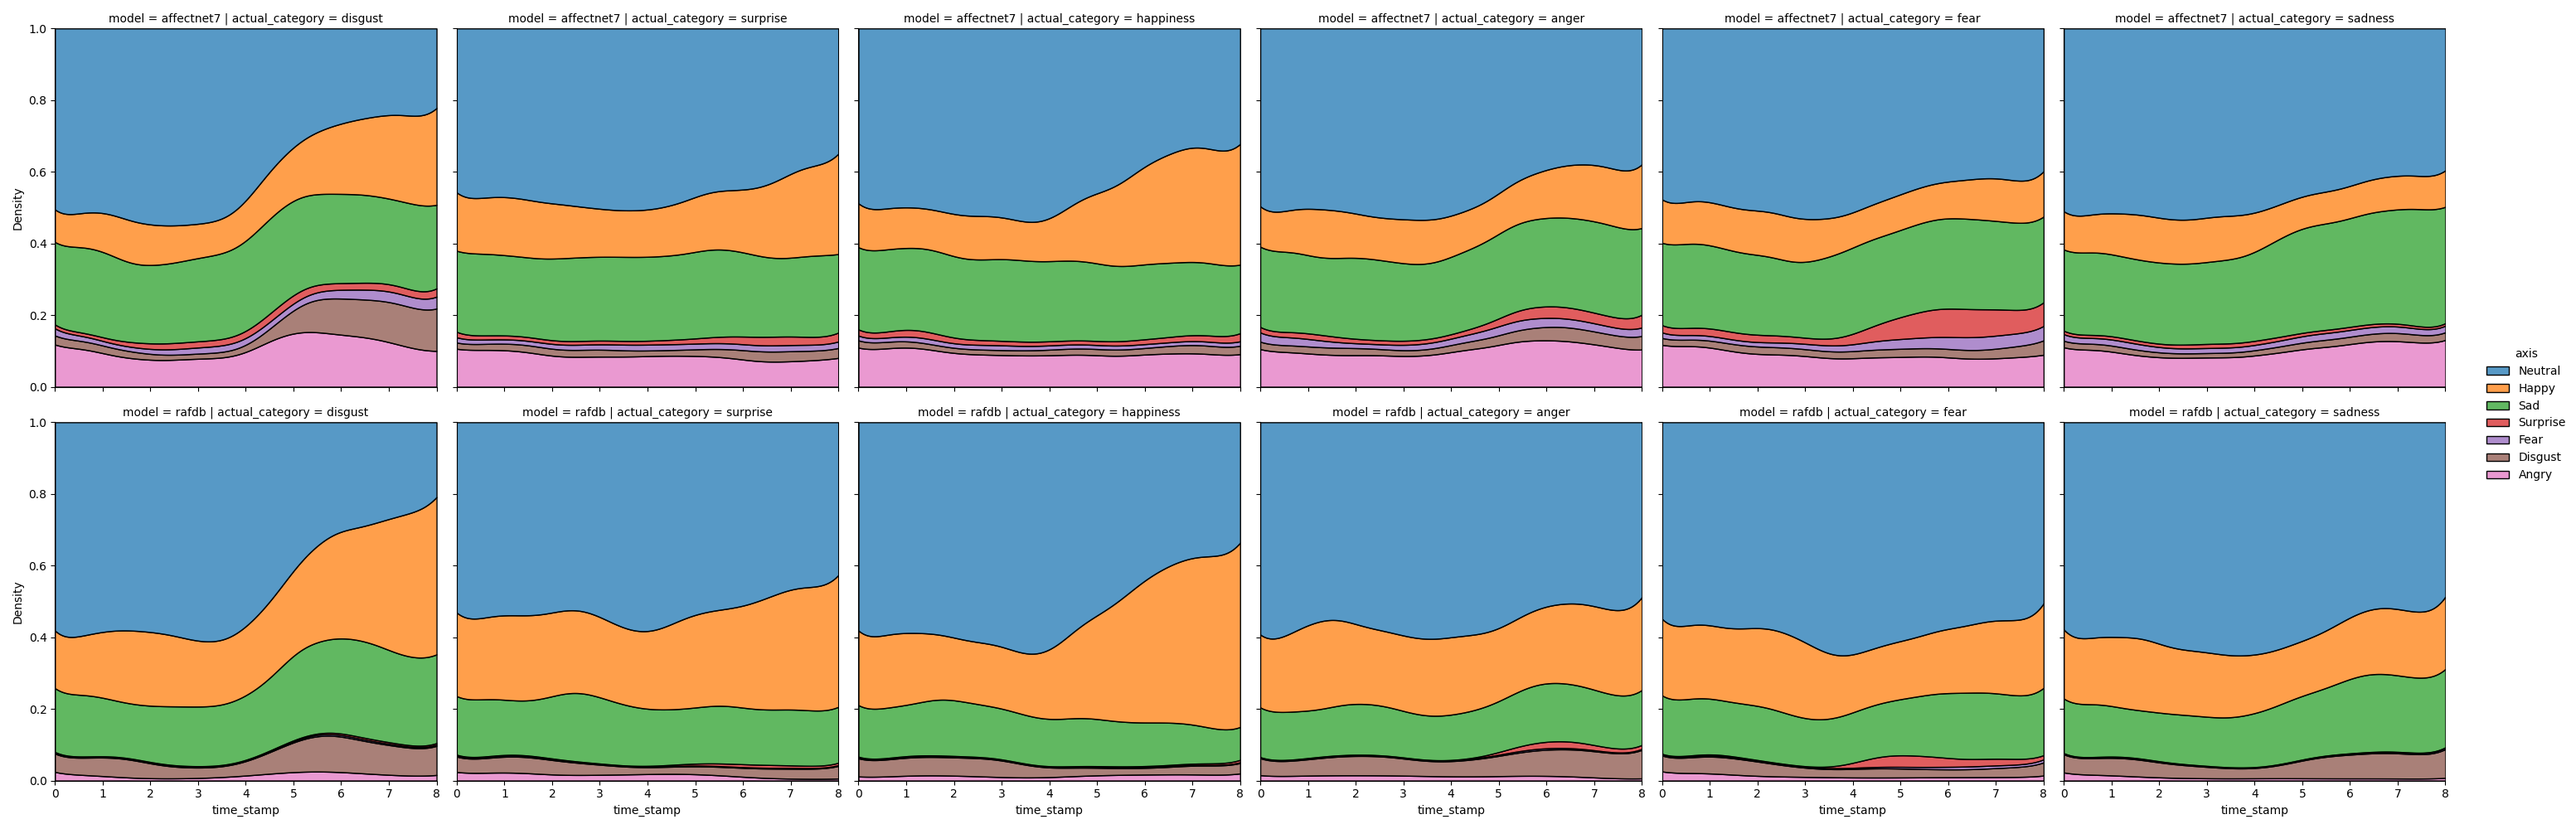
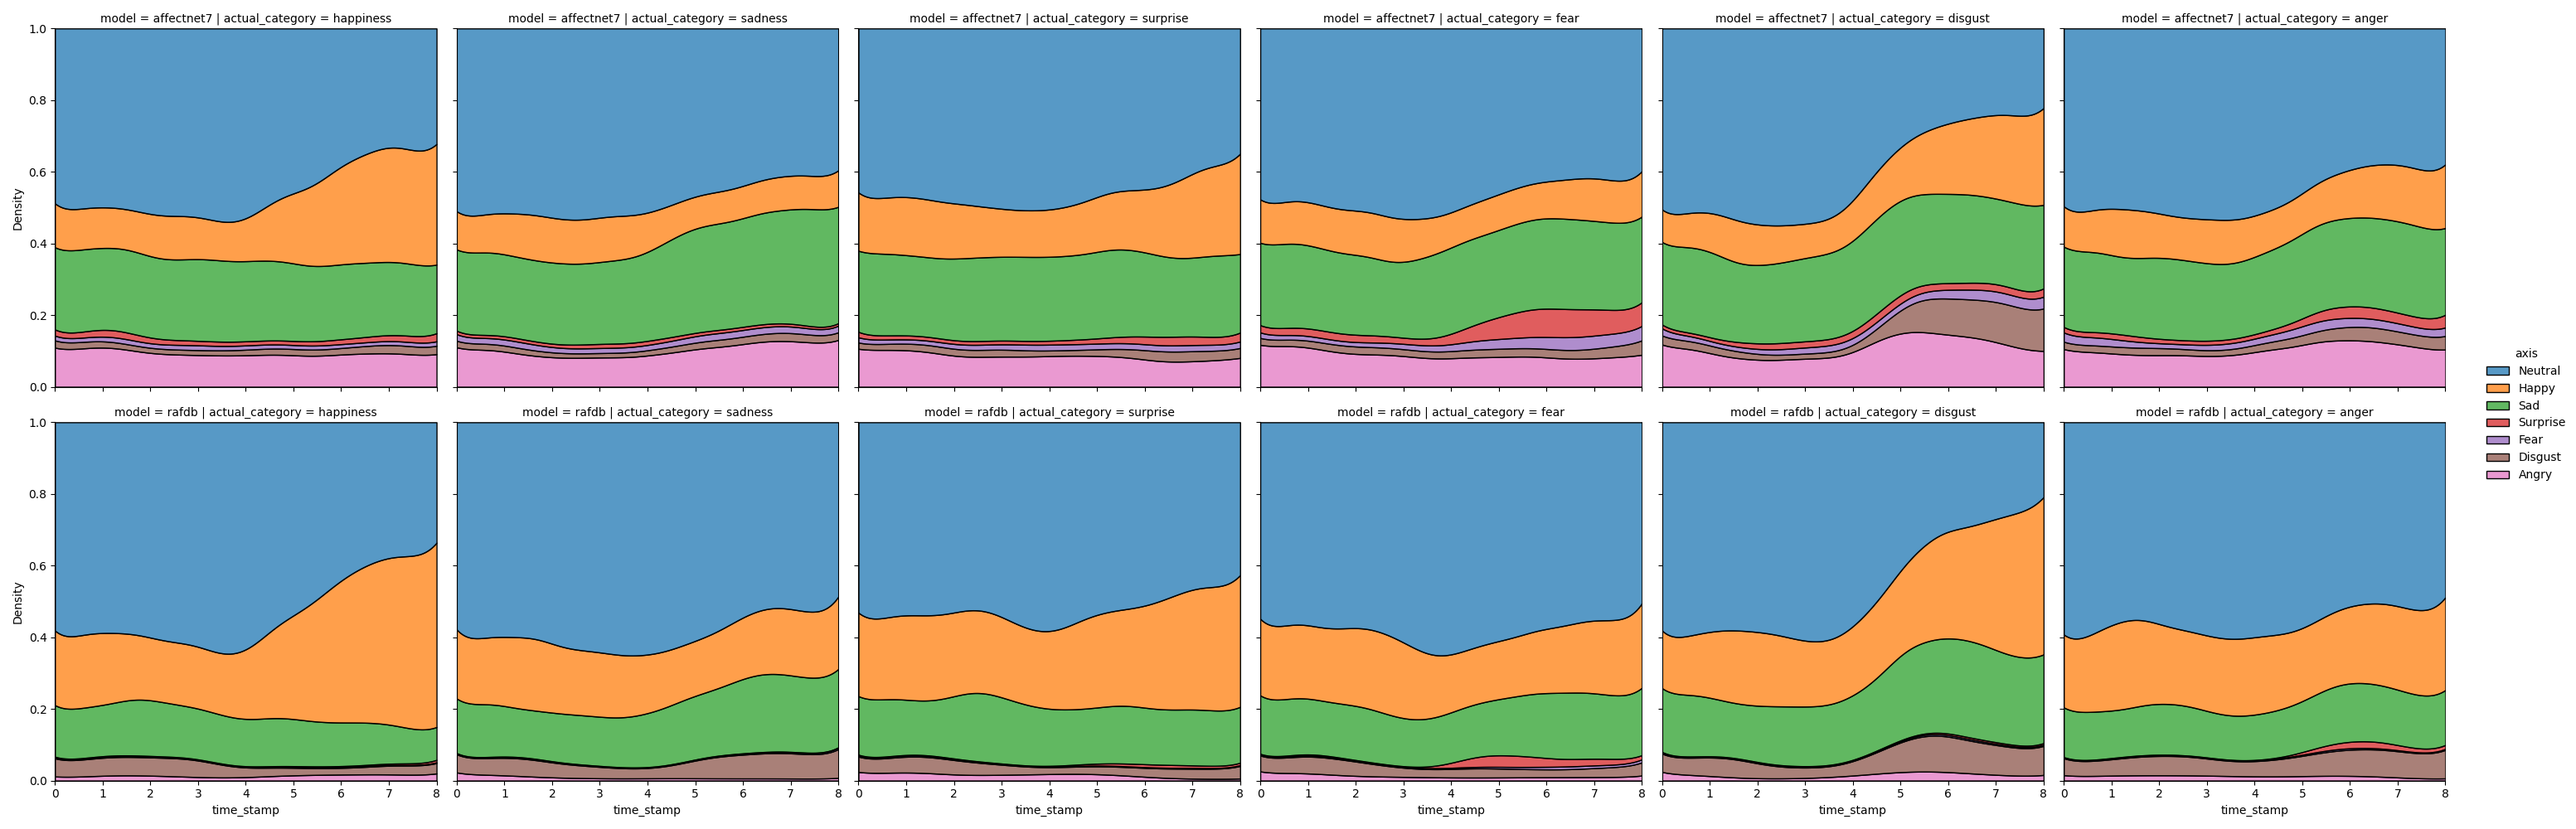
we are so fucking up god damn

diff --git a/src/Graphs.py b/src/Graphs.py
@@ -5,6 +5,7 @@ from matplotlib import pyplot
 from matplotlib.axes import Axes
 from seaborn import FacetGrid
 
+from src.Consts import emotion_classes_network, emotion_classes_vote, emotion_classes_og_dataset, network_to_vote
 from src.DataConversion import remap, normalize_col, retrieve_compiled_video_logs, load_timing_from_frames
 
 
@@ -23,6 +24,7 @@ def plot_gender_distribution() -> Axes:
     plt.pie(data, labels=data.index, autopct='%1.1f%%', startangle=90)
     return plt.gca()
 
+
 def plot_age_distribution() -> Axes:
     df = pd.read_csv("data/bias.csv")
     data = df["demographic_age"].value_counts()
@@ -37,6 +39,7 @@ def plot_confusion_matrix() -> Axes:
     conf_matrix = pd.crosstab(df['actual_category'], df['category'])
     return sns.heatmap(conf_matrix, annot=True)
 
+
 def load_single_video_data(df: pd.DataFrame, key: str, normalize: bool = False) -> pd.DataFrame:
     other = pd.read_csv("data/CowenKeltnerEmotionalVideos.csv") \
         .filter(["Filename", key]) \
@@ -45,14 +48,20 @@ def load_single_video_data(df: pd.DataFrame, key: str, normalize: bool = False) 
         other = normalize_col(other, "true_" + key, (1, 9))
     return df.merge(other, on="watched_video")
 
+
 def plot_valence_comparison(): return plot_triple_comparison("valence")
+
+
 def plot_arousal_comparison(): return plot_triple_comparison("arousal")
+
+
 def plot_triple_comparison(key: str) -> FacetGrid:
     df = pd.read_csv("data/questionnaire.csv")
     df = normalize_col(df, key, (1, 7))
     df = load_single_video_data(df, key, normalize=True)
     df[key + "_diff"] = df[key] - df["true_" + key]
-    melted_df = df.melt(id_vars=["actual_category", "watched_video"], value_vars=[key, "true_" + key, key + "_diff"], var_name="col", value_name="value")
+    melted_df = df.melt(id_vars=["actual_category", "watched_video"], value_vars=[key, "true_" + key, key + "_diff"],
+                        var_name="col", value_name="value")
     melted_df = melted_df[~((melted_df['col'] == 'true_' + key) & melted_df.duplicated(['col', 'watched_video']))]
     g = sns.FacetGrid(melted_df, col="col", hue="actual_category", sharex=False, sharey=False, aspect=1.2)
     g.map(sns.kdeplot, "value", bw_adjust=1)
@@ -60,15 +69,27 @@ def plot_triple_comparison(key: str) -> FacetGrid:
     g.axes[0, 2].axvline(x=0, color='black', linestyle='--')
     return g
 
+
 def plot_valence_distribution(): return plot_distribution("valence")
+
+
 def plot_arousal_distribution(): return plot_distribution("arousal")
+
+
 def plot_intensity_distribution(): return plot_distribution("intensity")
+
+
 def plot_distribution(key: str) -> Axes:
     df = pd.read_csv("data/questionnaire.csv")
     return sns.kdeplot(df, x=key, hue="actual_category")
 
+
 def plot_true_valence_distribution(): return plot_true_distribution("valence")
+
+
 def plot_true_arousal_distribution(): return plot_true_distribution("arousal")
+
+
 def plot_true_distribution(key: str) -> Axes:
     df = pd.read_csv("data/questionnaire.csv")
     df = load_single_video_data(df, key, normalize=True)
@@ -76,7 +97,11 @@ def plot_true_distribution(key: str) -> Axes:
 
 
 def plot_valence_matching(): return plot_matching("valence")
+
+
 def plot_arousal_matching(): return plot_matching("arousal")
+
+
 def plot_matching(key: str) -> Axes:
     df = pd.read_csv("data/questionnaire.csv")
     df = normalize_col(df, key, (1, 7))
@@ -86,13 +111,17 @@ def plot_matching(key: str) -> Axes:
     ax.axvline(x=0, color='black', linestyle='--')
     return ax
 
+def order_by_emotion_class_og_dataset(df: pd.DataFrame) -> pd.DataFrame:
+    df["actual_category_index"] = df["actual_category"].apply(lambda x: emotion_classes_og_dataset.index(x))
+    return df.sort_values("actual_category_index")
+
 def plot_video_watch_count() -> Axes:
     df = pd.read_csv("data/questionnaire.csv")
     data = df["watched_video"].value_counts().rename_axis('watched_video').to_frame('index')
     data = data.merge(df[["watched_video", "actual_category"]], on="watched_video")
-    data = data.sort_values("actual_category", ascending=False)
+    data = order_by_emotion_class_og_dataset(data)
     fig, ax = pyplot.subplots(figsize=(16.0, 7.0))
-    ax = sns.barplot(data, x="watched_video", y="index", hue="actual_category", ax=ax)
+    ax = sns.barplot(data, x="watched_video", y="index", hue="actual_category", ax=ax, hue_order=emotion_classes_og_dataset)
     plt.xticks(rotation=45, ha='right')
     return ax
 
@@ -102,33 +131,105 @@ def plot_pre_reaction() -> Axes:
     df = df[df["time_stamp"] < 3]
     # find out the dominant emotion for each frame, of every video from every participant
     # df = df.loc[df.groupby(["participant", "watched_video", "frame"])['value'].idxmax()]
-    return sns.lmplot(data=df, x="time_stamp", y="value", col="axis", hue="model", scatter_kws={"s": 20, "alpha": 0.1, "edgecolors": 'none'})
+    return sns.lmplot(data=df, x="time_stamp", y="value", col="axis", hue="model",
+                      scatter_kws={"s": 20, "alpha": 0.1, "edgecolors": 'none'}, col_order=emotion_classes_network)
+
 
 def plot_all_reaction_fill() -> FacetGrid:
     df = retrieve_compiled_video_logs()
     df = df[df["time_stamp"] < 8]
-    g = sns.displot(data=df, x="time_stamp", weights="value", col="model", hue="axis", kind="kde", multiple="fill", clip=(0.0, 8.0))
+    g = sns.displot(data=df, x="time_stamp", weights="value", col="model", hue="axis", kind="kde", multiple="fill",
+                    clip=(0.0, 8.0), hue_order=emotion_classes_network)
     return g
+
 
 def plot_all_reaction_fill_by_emotion() -> FacetGrid:
     df = retrieve_compiled_video_logs()
     df = df[df["time_stamp"] < 8]
-    g = sns.displot(data=df, x="time_stamp", weights="value", row="model", col="category", hue="axis", kind="kde", multiple="fill", clip=(0.0, 8.0))
+    g = sns.displot(data=df, x="time_stamp", weights="value", row="model", col="category", hue="axis", kind="kde",
+                    multiple="fill", clip=(0.0, 8.0), hue_order=emotion_classes_network, col_order=emotion_classes_vote)
     return g
 
 
 def plot_all_reaction_fill_by_original_category() -> FacetGrid:
     df = retrieve_compiled_video_logs()
     df = df[df["time_stamp"] < 8]
-    g = sns.displot(data=df, x="time_stamp", weights="value", row="model", col="actual_category", hue="axis", kind="kde", multiple="fill", clip=(0.0, 8.0))
+    g = sns.displot(data=df, x="time_stamp", weights="value", row="model", col="actual_category", hue="axis",
+                    kind="kde", multiple="fill", clip=(0.0, 8.0), hue_order=emotion_classes_network,
+                    col_order=emotion_classes_og_dataset)
     return g
 
 
+def plot_most_confident_guess() -> FacetGrid:
+    df = retrieve_compiled_video_logs()
+    df = df[df["time_stamp"] < 8]
+    df = df.loc[df.groupby(["participant", "watched_video", "frame"])['value'].idxmax()]
+    g = sns.displot(data=df, x="time_stamp", weights="value", row="model", col="category", hue="axis", kind="kde",
+                    multiple="fill", clip=(0.0, 8.0), hue_order=emotion_classes_network, col_order=emotion_classes_vote)
+    return g
 
-all_plots = [# plot_gender_distribution, plot_age_distribution,
-             # plot_confusion_matrix, plot_video_watch_count,
-             # plot_valence_comparison, plot_arousal_comparison, plot_intensity_distribution,
-             # plot_pre_reaction,
-             # plot_all_reaction_fill
-             plot_all_reaction_fill_by_original_category
+
+def load_correct_guess_data() -> pd.DataFrame:
+    df = retrieve_compiled_video_logs()
+    df = df.loc[df.groupby(["participant", "watched_video", "frame", "model"])['value'].idxmax()]
+    df["is_correct"] = df["category"] == network_to_vote(df["axis"])
+    return df
+
+
+def plot_correct_guess() -> FacetGrid:
+    df = load_correct_guess_data()
+    g = sns.displot(data=df, x="time_stamp", row="model", col="category", hue="is_correct", kind="kde",
+                    multiple="fill", clip=(0.0, 8.0), col_order=emotion_classes_vote)
+    return g
+
+
+def load_averaged_correct_guess_data() -> pd.DataFrame:
+    df = load_correct_guess_data()
+    df = df[3 < df["time_stamp"]]
+    df_grouped = df.groupby(["participant", "watched_video", "model"])["is_correct"].mean().reset_index()
+    video_info = df[["participant", "watched_video", "actual_category", "category", "valence", "arousal", "intensity"]].drop_duplicates()
+    return df_grouped.merge(video_info, on=["participant", "watched_video"])
+
+def plot_correct_guess_highest() -> Axes:
+    df = load_averaged_correct_guess_data()
+    df = order_by_emotion_class_og_dataset(df)
+    fig, ax = pyplot.subplots(figsize=(16.0, 7.0))
+    ax = sns.barplot(data=df, x="watched_video", y="is_correct", hue="actual_category", ax=ax, hue_order=emotion_classes_og_dataset)
+    plt.xticks(rotation=45, ha='right')
+    return ax
+
+
+def plot_correct_guess_relation_intensity() -> Axes: return plot_correct_guess_relation_by("intensity")
+def plot_correct_guess_relation_valence() -> Axes: return plot_correct_guess_relation_by("valence")
+def plot_correct_guess_relation_arousal() -> Axes: return plot_correct_guess_relation_by("arousal")
+def plot_correct_guess_relation_by(key: str) -> Axes:
+    df = load_averaged_correct_guess_data()
+    ax = sns.lmplot(data=df, x=key, y="is_correct", row="model", col="category", col_order=emotion_classes_vote,
+                    hue="category", hue_order=emotion_classes_vote)
+    return ax
+
+
+def plot_correct_guess_relation_bias() -> Axes:
+    df = load_averaged_correct_guess_data()
+    df = df.merge(pd.read_csv("data/bias.csv"), on="participant")
+    df["bias"] = df.apply(lambda x: x["bias_" + x["category"]] if x["category"] != "neutral" else 0, axis=1)
+    ax = sns.lmplot(data=df, x="bias", y="is_correct", row="model", col="category", col_order=emotion_classes_vote,
+                    hue="category", hue_order=emotion_classes_vote)
+    return ax
+
+
+all_plots = [
+    # plot_gender_distribution, plot_age_distribution,
+    # plot_confusion_matrix, plot_video_watch_count,
+    # plot_valence_comparison, plot_arousal_comparison, plot_intensity_distribution,
+    # plot_video_watch_count,
+    # plot_pre_reaction,
+    # plot_all_reaction_fill,
+    # plot_all_reaction_fill_by_emotion,
+    # plot_all_reaction_fill_by_original_category,
+    # plot_most_confident_guess,
+    # plot_correct_guess,
+    # plot_correct_guess_highest,
+    plot_correct_guess_relation_intensity, plot_correct_guess_relation_valence, plot_correct_guess_relation_arousal
+
 ]

diff --git a/src/Debug.py b/src/Debug.py
@@ -9,7 +9,7 @@ from torchvision.utils import save_image
 
 from networks.DDAMFNpp_affectnet7 import DDAMFNppAffectnet7
 from networks.DDAMFNpp_rafdb import DDAMFNppRAFDB
-from src.Consts import emotion_classes
+from src.Consts import emotion_classes_network
 from src.RetinaFaceAlign import transform_stack
 from src.VideoUtil import FrameIterator, VideoTarget, find_all_videos
 
@@ -55,8 +55,8 @@ def plot_results(outputs: torch.Tensor):
     probabilities = torch.nn.functional.softmax(outputs, dim=1).cpu().numpy()
 
     plt.figure(figsize=(10, 5))
-    plt.bar(np.arange(len(emotion_classes)), probabilities[0], align='center', alpha=0.7)
-    plt.xticks(np.arange(len(emotion_classes)), emotion_classes, rotation=45)
+    plt.bar(np.arange(len(emotion_classes_network)), probabilities[0], align='center', alpha=0.7)
+    plt.xticks(np.arange(len(emotion_classes_network)), emotion_classes_network, rotation=45)
     plt.xlabel('Emotion')
     plt.ylabel('Probability')
     plt.title('Emotion Prediction Probabilities')

diff --git a/src/Consts.py b/src/Consts.py
@@ -1,1 +1,13 @@
-emotion_classes = ['Neutral', 'Happy', 'Sad', 'Surprise', 'Fear', 'Disgust', 'Angry']
+from typing import Union
+
+from pandas import Series
+
+emotion_classes_network = ['Neutral', 'Happy', 'Sad', 'Surprise', 'Fear', 'Disgust', 'Angry']
+emotion_classes_vote = ['neutral', 'happiness', 'sadness', 'surprise', 'fear', 'disgust', 'anger']
+emotion_classes_og_dataset = ['happiness', 'sadness', 'surprise', 'fear', 'disgust', 'anger']
+
+
+def network_to_vote(emotion: Union[str, Series]) -> str:
+    if isinstance(emotion, Series):
+        return emotion.apply(lambda x: emotion_classes_vote[emotion_classes_network.index(x)])
+    return emotion_classes_vote[emotion_classes_network.index(emotion)]

diff --git a/src/FrameData.py b/src/FrameData.py
@@ -4,7 +4,7 @@ from typing import Union
 
 import pandas as pd
 
-from src.Consts import emotion_classes
+from src.Consts import emotion_classes_network
 from src.VideoUtil import VideoTarget
 
 
@@ -42,7 +42,7 @@ def combine_frame_data(data: ExtractedEmotionSet) -> pd.DataFrame:
     row_list = []
     for model_name, model_data in data.items():
         for i, frame in enumerate(model_data):
-            for axis_index, axis in enumerate(emotion_classes):
+            for axis_index, axis in enumerate(emotion_classes_network):
                 row_list.append({
                     "model": model_name,
                     "frame": i,
